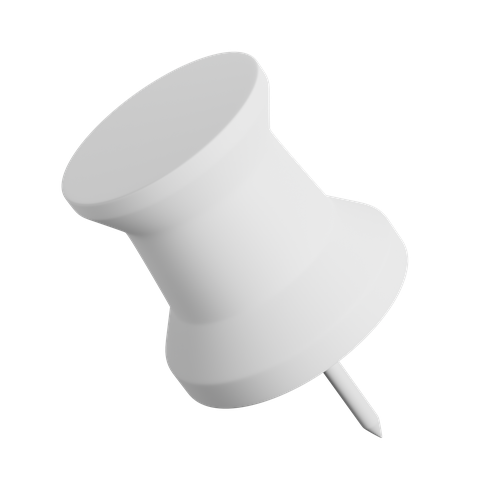
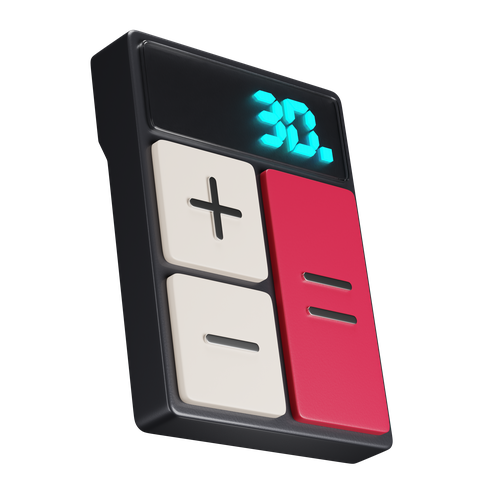
typo check

diff --git a/index.html b/index.html
@@ -421,7 +421,7 @@
         <div class="flex items-baseline justify-between mb-2">
           <h2 class="text-2xl font-bold tracking-tight">Kompanija</h2>
           <span class="text-xs text-zinc-500 uppercase tracking-widest"
-            >Kroz moj tim</span
+            >Kroz naš tim</span
           >
         </div>
         <p class="text-zinc-400 text-sm font-light mb-8 leading-relaxed">

diff --git a/sw.js b/sw.js
@@ -1,4 +1,4 @@
-const CACHE_NAME = "x3kk3x-pwa-v2.2";
+const CACHE_NAME = "x3kk3x-pwa-v2.3";
 const urlsToCache = ["/", "/index.html", "/manifest.json", "/icon.png"];
 
 self.addEventListener("install", (event) => {
